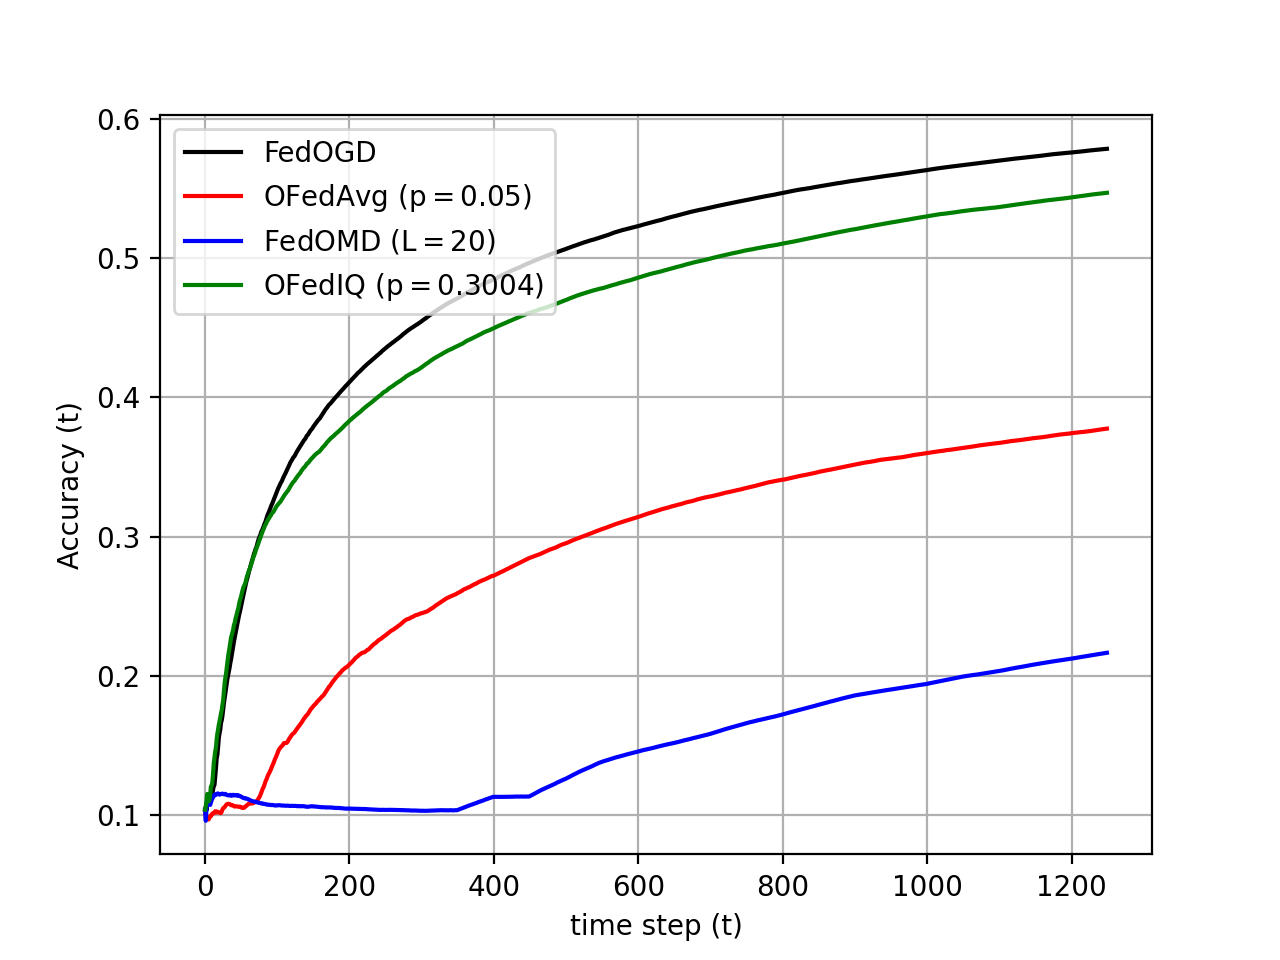
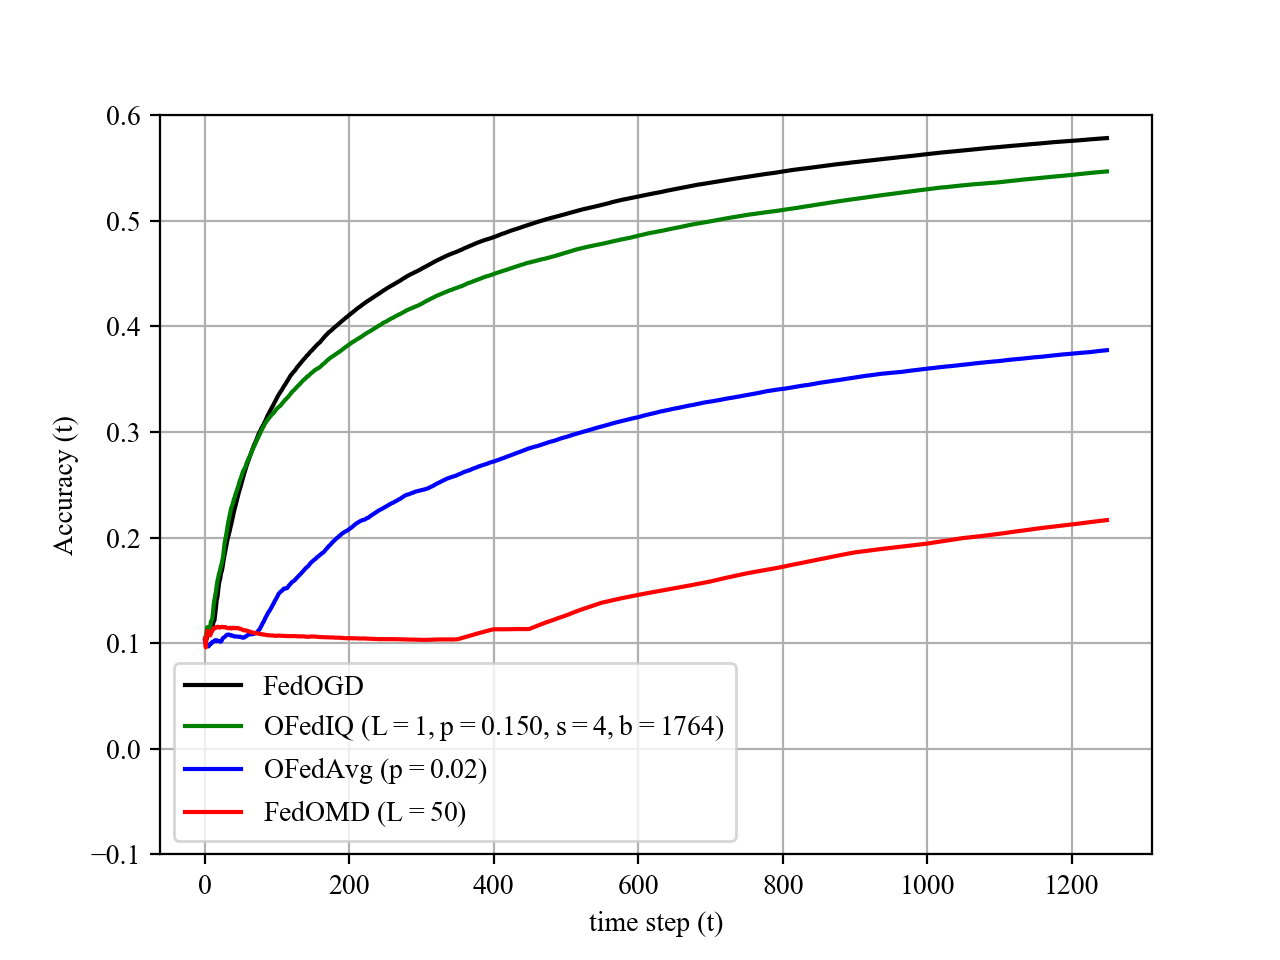
230727 08:18:

diff --git a/test.py b/test.py
@@ -1,17 +1,17 @@
 import pickle
 import matplotlib.pyplot  as plt
 
-task = 'reg'
+task = 'clf'
 
 code = input('Code:')
 
-with open(f"./result/{task}_FedOGD_{code}.pkl", "rb") as f:
+with open(f"./result_L/{task}_FedOGD_{code}.pkl", "rb") as f:
     r1 = pickle.load(f)
-with open(f"./result/{task}_OFedAvg_{code}.pkl", "rb") as f:
+with open(f"./result_L/{task}_OFedAvg_{code}.pkl", "rb") as f:
     r2 = pickle.load(f)
-with open(f"./result/{task}_FedOMD_{code}.pkl", "rb") as f:
+with open(f"./result_L/{task}_FedOMD_{code}.pkl", "rb") as f:
     r3 = pickle.load(f)
-with open(f"./result/{task}_OFedIQ_{code}.pkl", "rb") as f:
+with open(f"./result_L/{task}_OFedIQ_{code}.pkl", "rb") as f:
     r4 = pickle.load(f)
 
 

diff --git a/result.py b/result.py
@@ -1,7 +1,7 @@
 import pickle
 import matplotlib.pyplot  as plt
 
-task = 'reg'
+task = 'clf'
 
 code = input('Code:')
 
@@ -22,9 +22,10 @@ l4 = list(range(len(r4)))
 
 # Normal
 plt.plot(l1, r1, 'black', label=r'FedOGD')
-plt.plot(l2, r2, 'blue', label=r'OFedAvg ($\mathdefault{p=0.02}$)')
-plt.plot(l3, r3, 'red', label=r'FedOMD ($\mathdefault{L=50}$)')
-plt.plot(l4, r4, 'green', label=r'OFedIQ ($\mathdefault{p=0.1503}$)')
+plt.plot(l4, r4, 'green', label=r'OFedIQ ($\mathdefault{L=1,p=0.251,s=8,b=1767}$)')
+plt.plot(l2, r2, 'blue', label=r'OFedAvg ($\mathdefault{p=0.04}$)')
+plt.plot(l3, r3, 'red', label=r'FedOMD ($\mathdefault{L=25}$)')
+
 
 plt.xlabel('time step (t)')
 

diff --git a/main.py b/main.py
@@ -3,11 +3,11 @@ import pickle
 import numpy as np
 
 from data   import Room_data, Air_data
-from data_L import CIFAR_10_data, MNIST_data, EMNIST_data, data_shuffle
+#from data_L import CIFAR_10_data, MNIST_data, EMNIST_data, data_shuffle
 from model  import OFL_Model
 
 K = 1000
-D = 4353 # MNIST 34826 / CIFAR_10 150826(60362) / EMNIST 60442 / Air 4353 / Room 5380
+D = 60362 # MNIST 34826 / CIFAR_10 60362 / EMNIST 60442 / Air 4353 / Room 5380
 P = 0.02
 
 def opt_param(p1, D, print_result):
